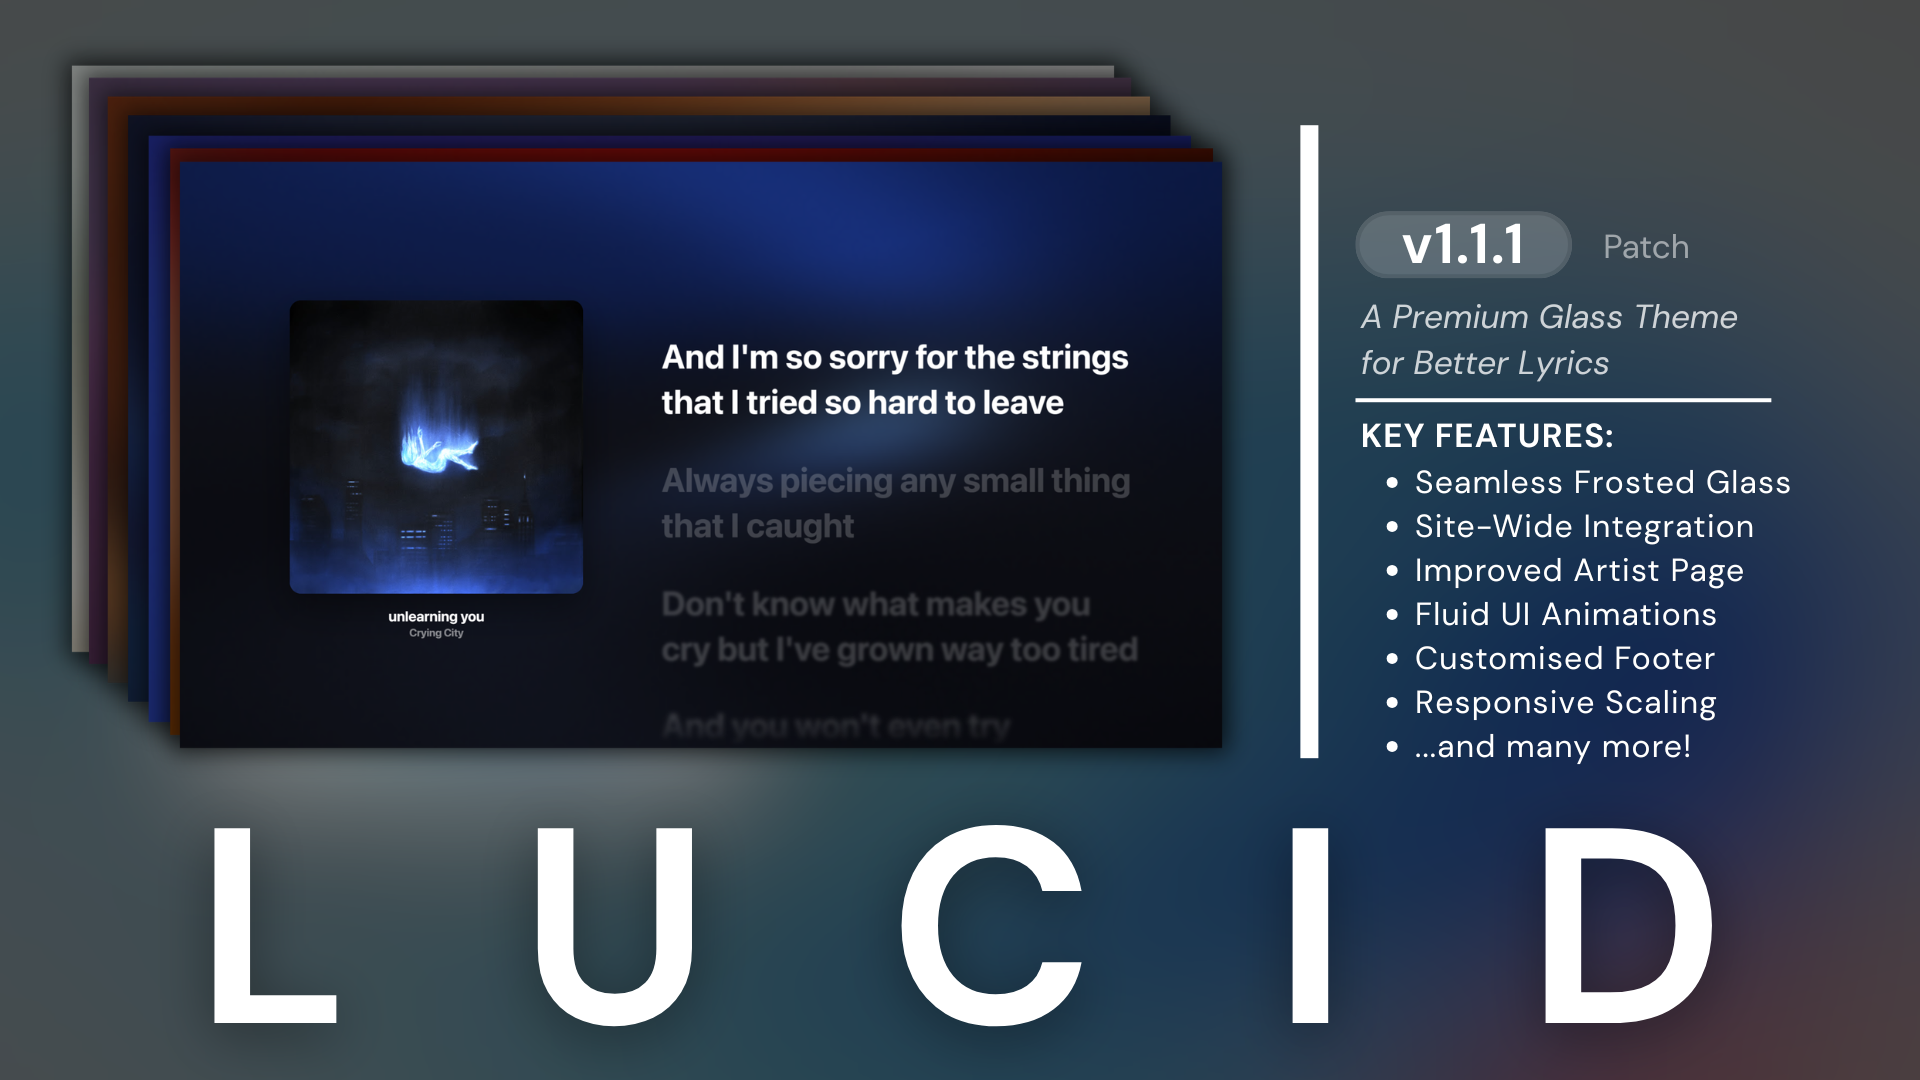
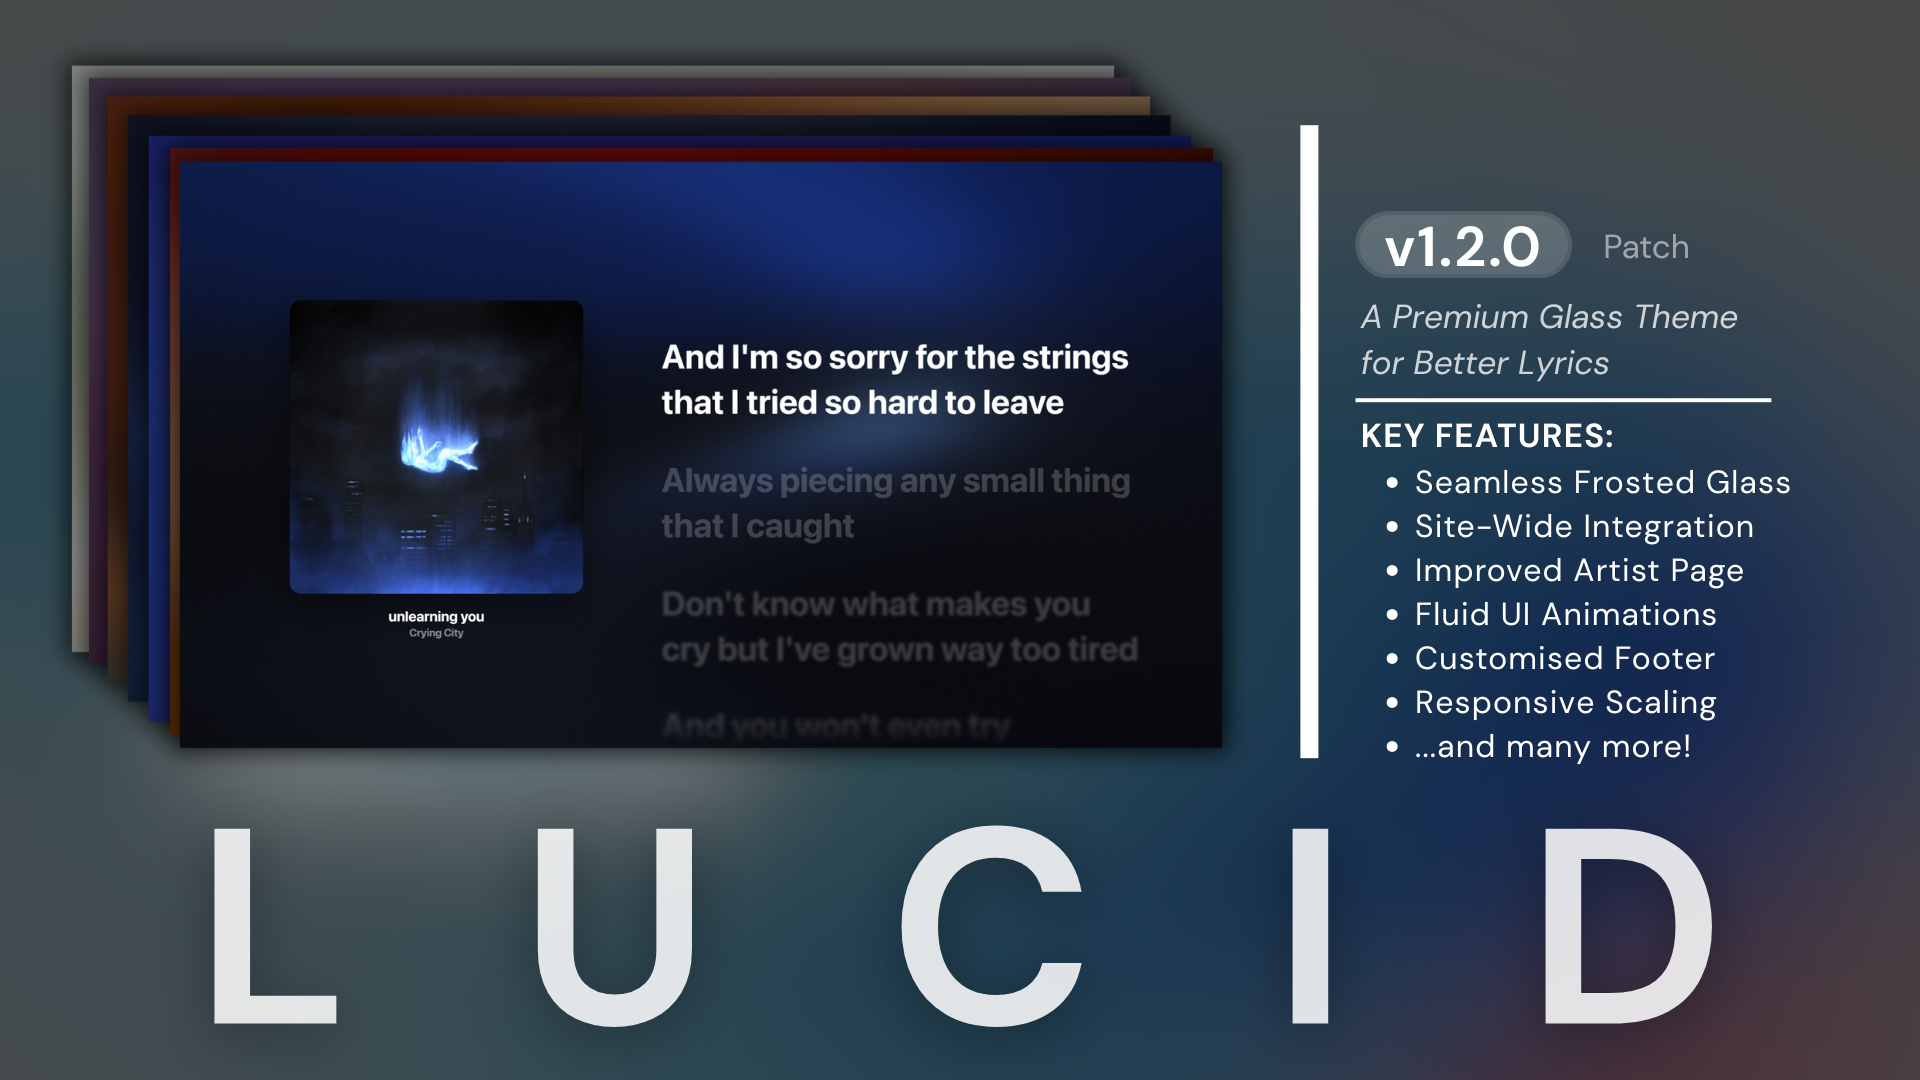
Add files via upload

diff --git a/DESCRIPTION.md b/DESCRIPTION.md
@@ -1,8 +1,8 @@
 A minimal theme that adds numerous improvements whilst keeping the original YTM feel.
 
-## v1.1.1 Update
+## v1.2.0 Update
 
-- **Support for Unison**: Unison footer bar styling fixed
+- **Support for Better Lyrics v2.4.0 added**
 
 ## Features
 
